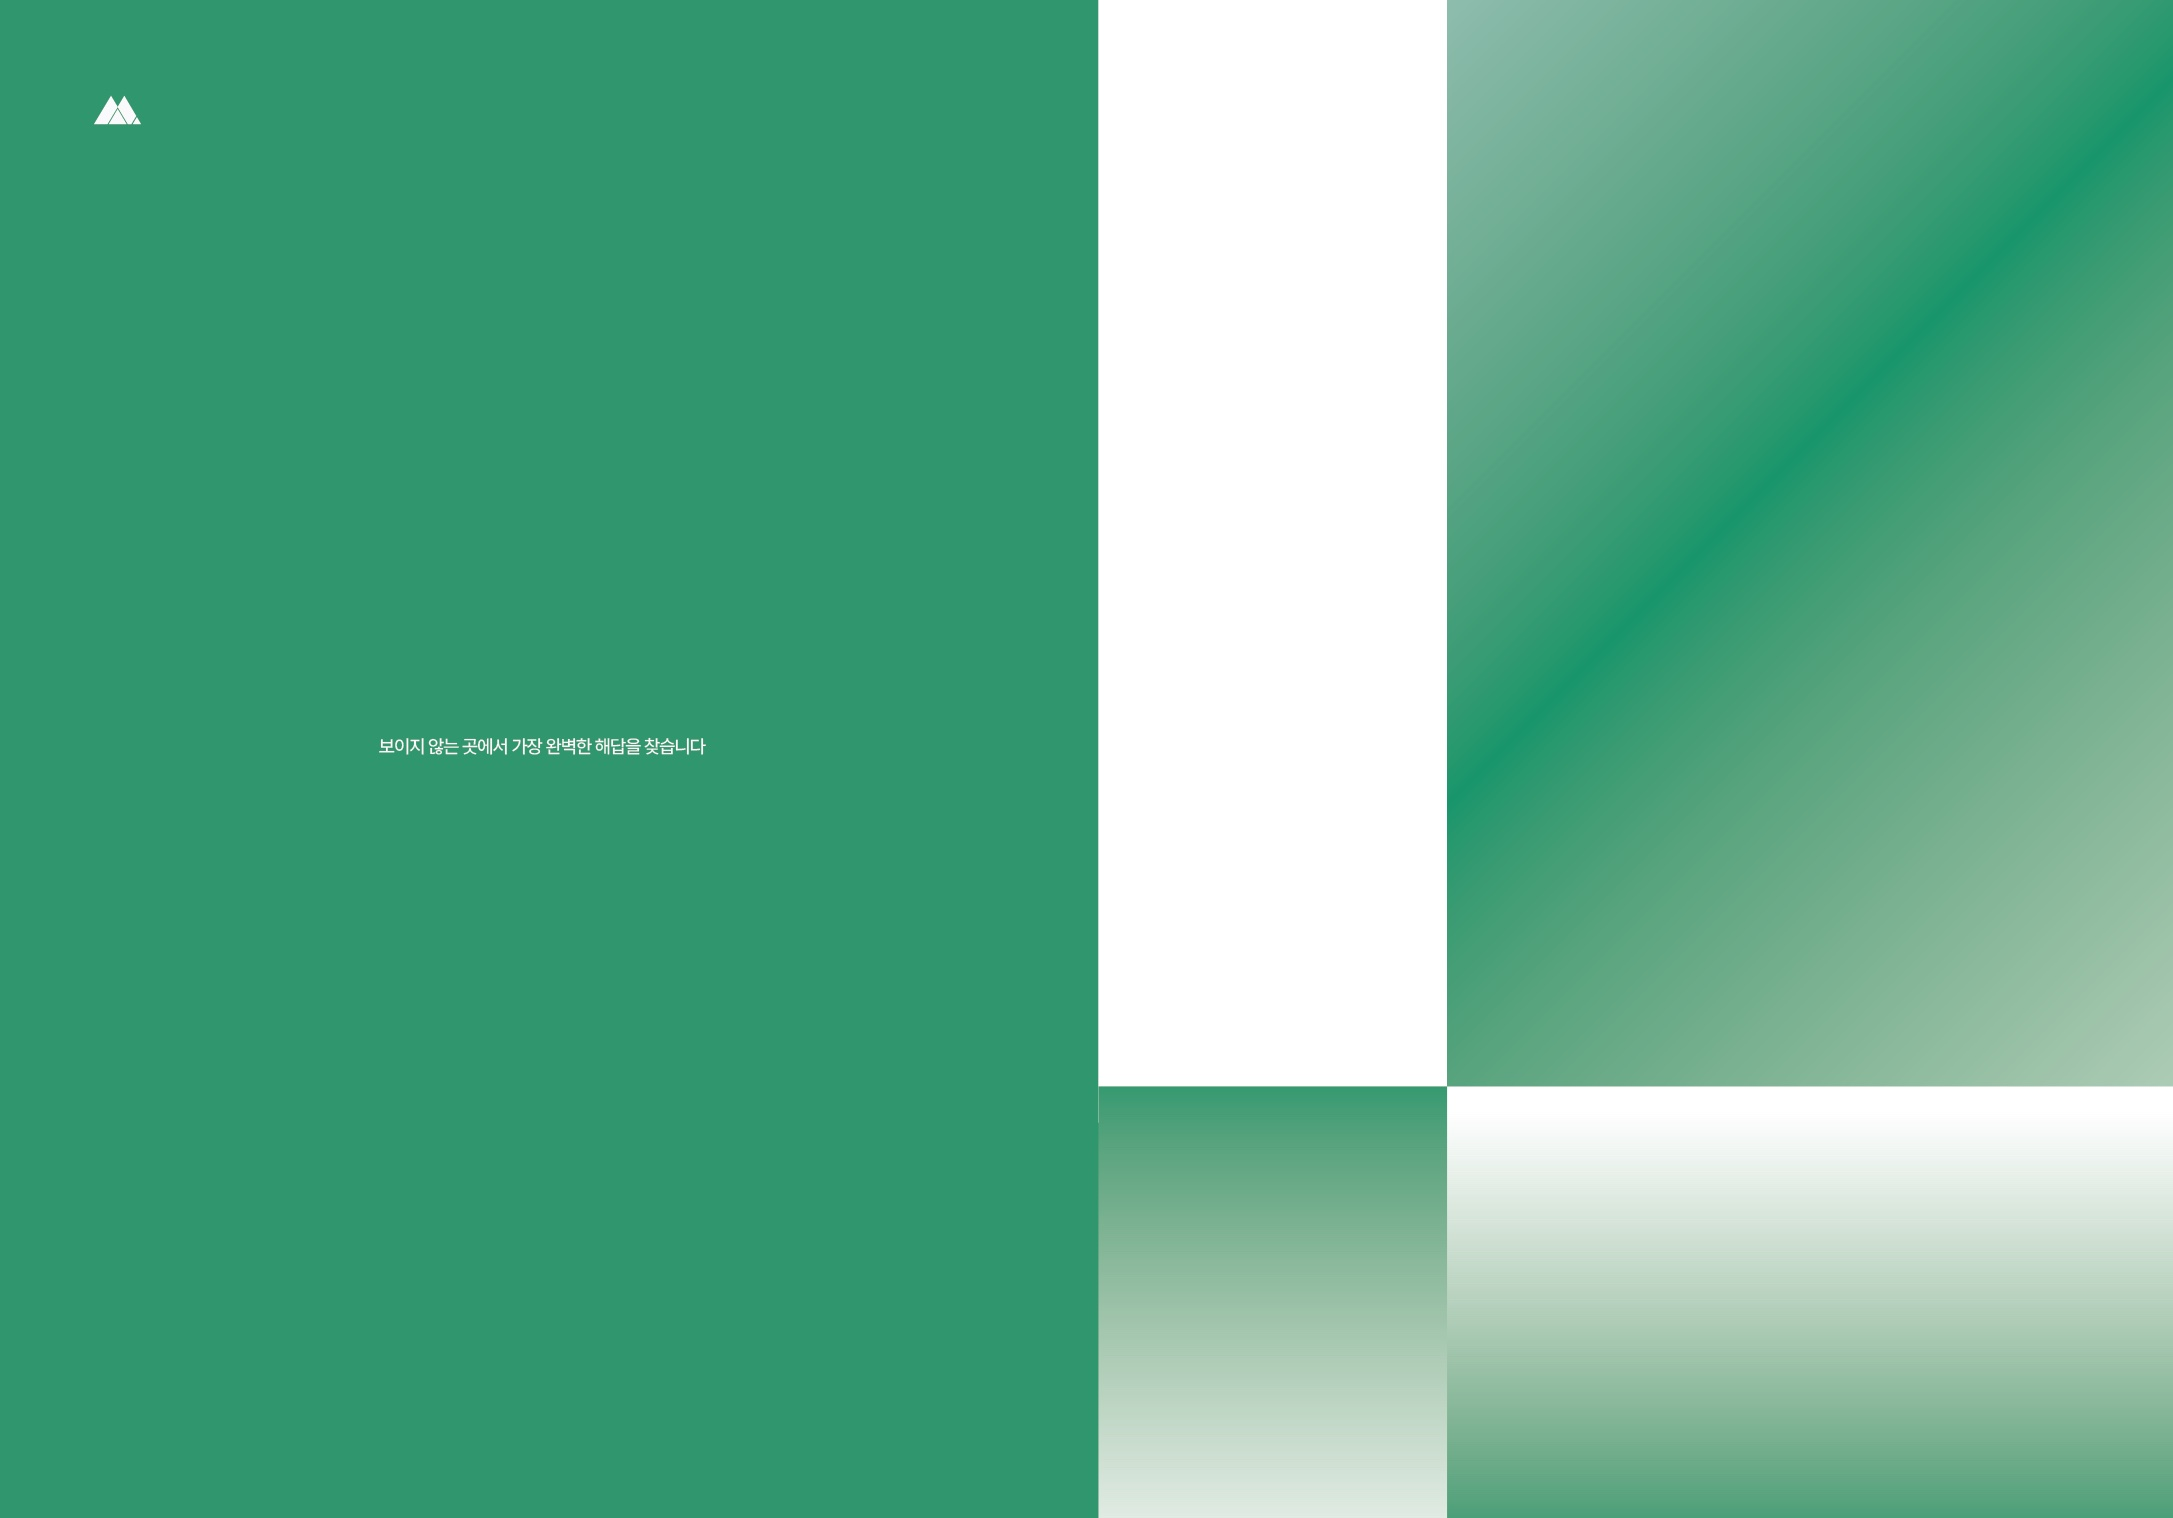
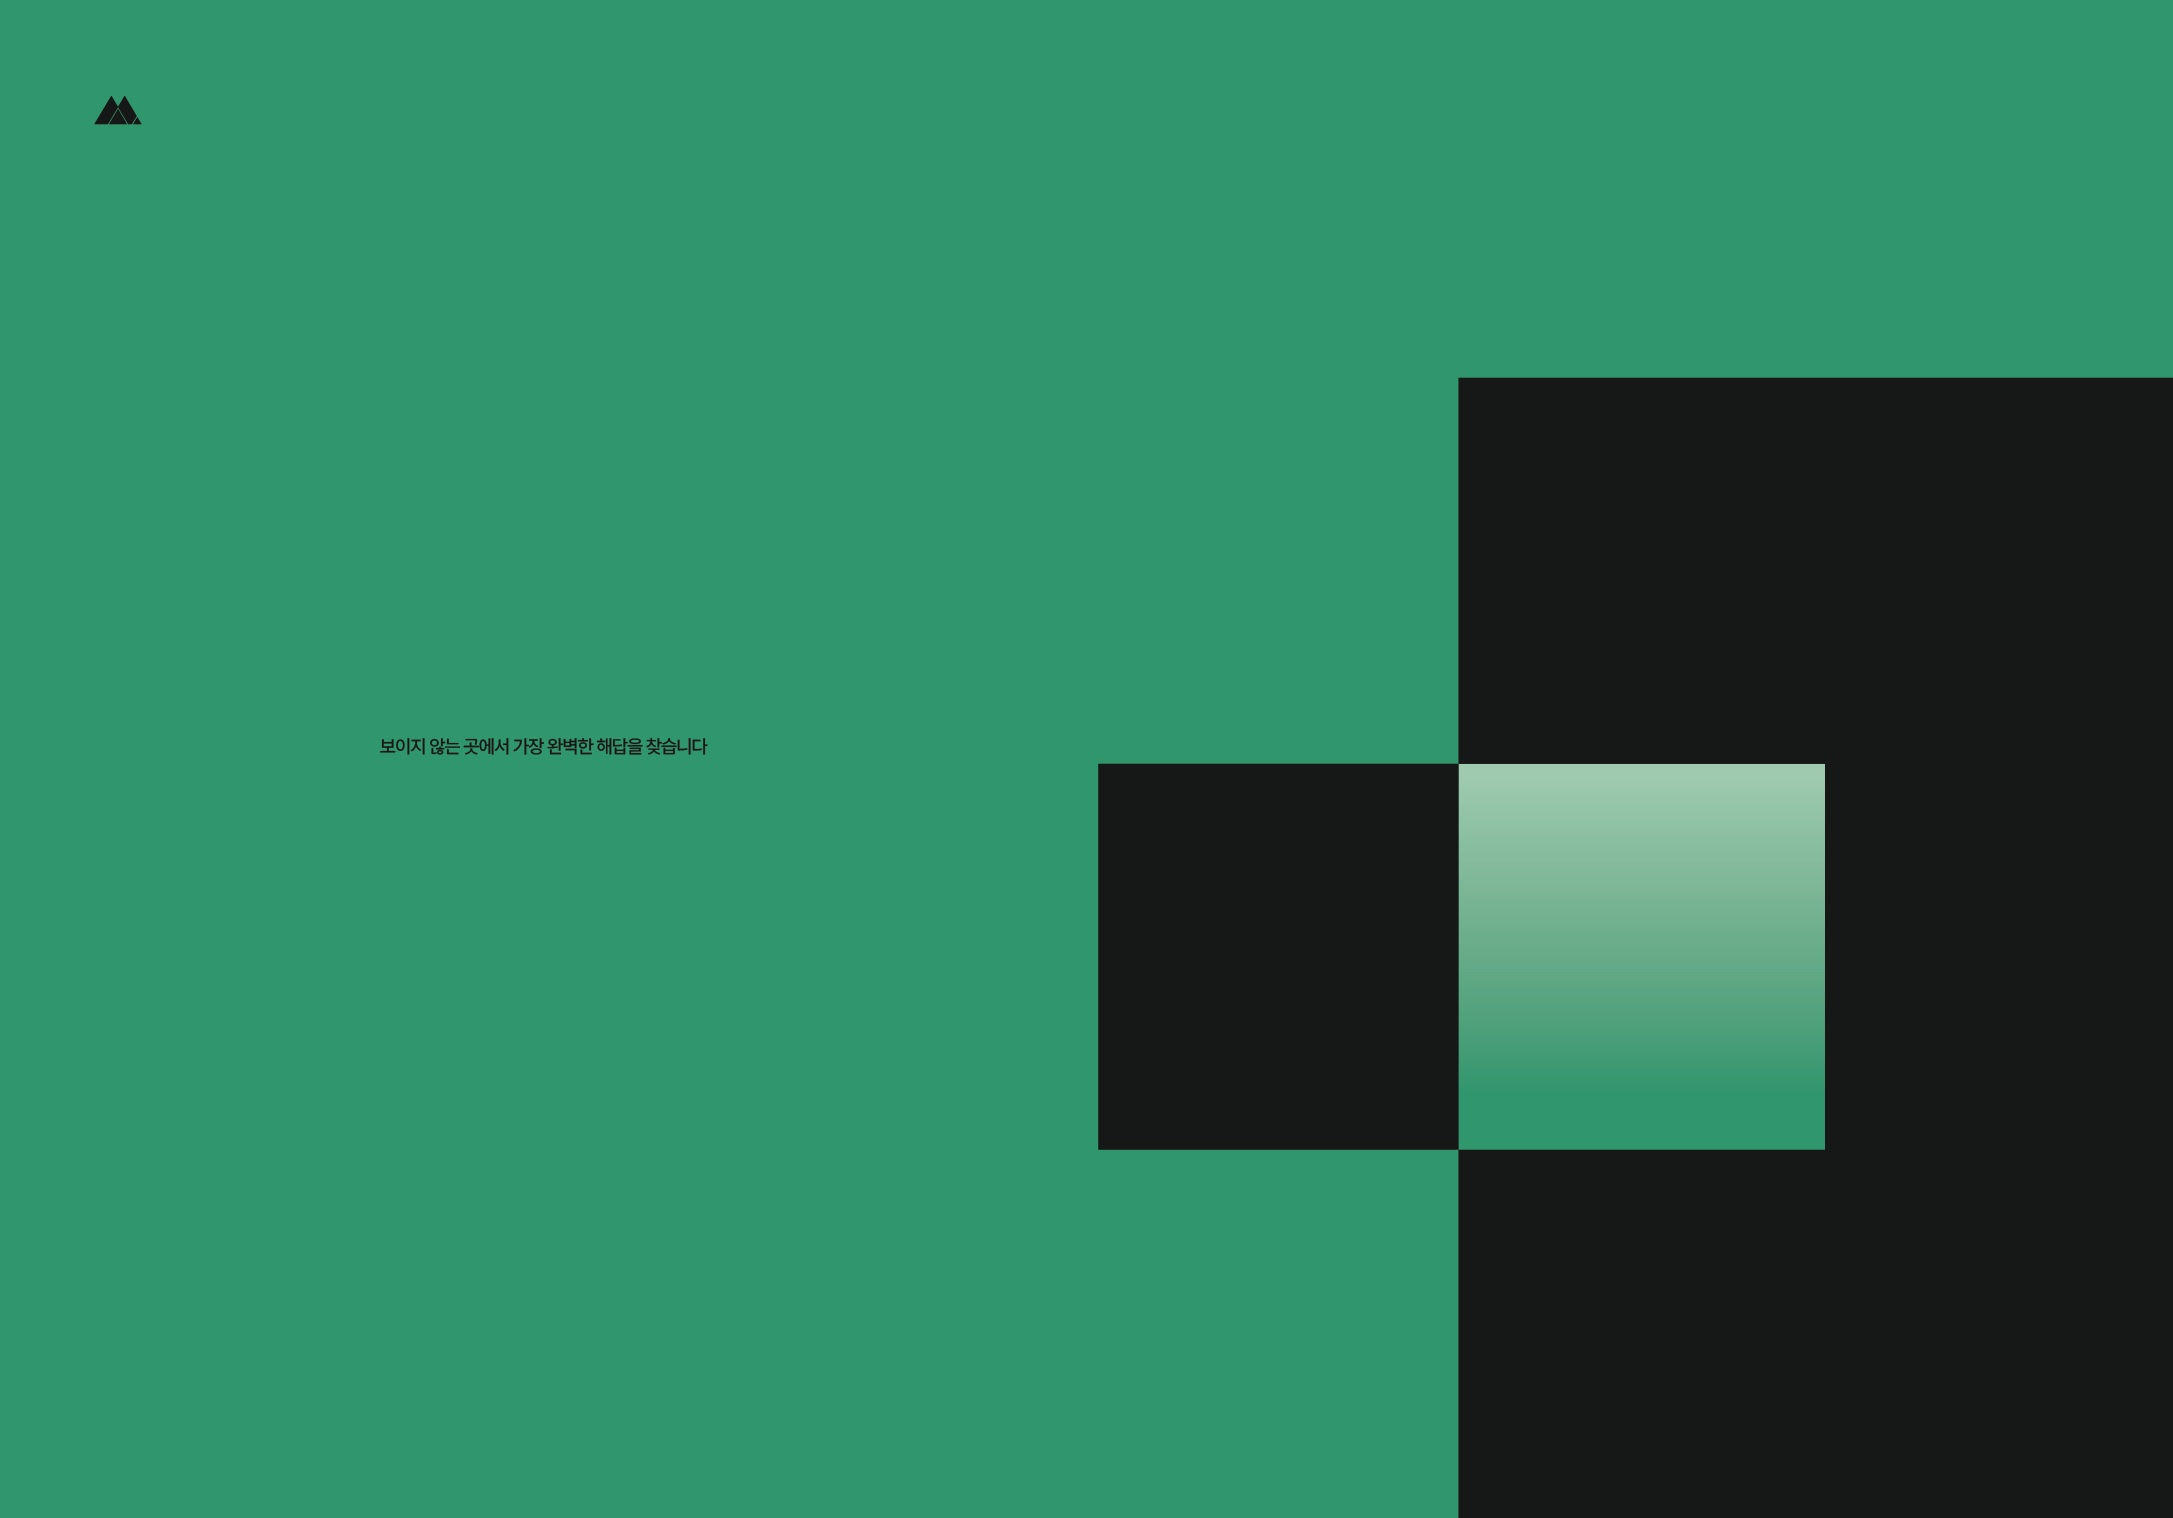
v2 표지 12종: 표지 재료·규칙·엔진·표지 고르기 화면·썸네일
새 표지 마스터(표지_1105) 쪽 순서 = 표지 번호 01~12. 안쪽 그린 01·02·03·05·06, 나머지 블랙.
추천 템플릿 B 표지 03 → 12(디자인 그대로), 한 줄 아래 정렬 04 → 09(엔진 ?v=20261105b).
썸네일은 엔진으로 만든 표1(학원명 + BRANDBOOK).

diff --git a/v2/index.html b/v2/index.html
@@ -937,7 +937,7 @@
 <script src="https://cdn.jsdelivr.net/npm/pdf-lib@1.17.1/dist/pdf-lib.min.js"></script>
 <script src="https://cdn.jsdelivr.net/npm/@pdf-lib/fontkit@1.1.1/dist/fontkit.umd.min.js"></script>
 <!-- 엔진을 고치면 ?v= 값을 바꿔 브라우저에 남은 예전 엔진을 쓰지 않게 합니다 -->
-<script src="brandbook/engine.js?v=20261105"></script>
+<script src="brandbook/engine.js?v=20261105b"></script>
 <!-- 앞부분(3~12p) 직접 꾸미기 편집기 (2026-11-05). 편집기를 고치면 ?v= 값을 바꿉니다. -->
 <link rel="stylesheet" href="diy/diy-editor.css?v=20261105d">
 <script src="https://cdnjs.cloudflare.com/ajax/libs/fabric.js/5.3.0/fabric.min.js"></script>
@@ -1355,7 +1355,7 @@ const selectedTopics = new Set();
 // 실제 업로드된 파일이 guide_1.png, greeting_1.png처럼 언더스코어로 되어있어 pageFile()도 언더스코어를 씁니다.
 function pageFile(prefix, idx){ return `../assets/pages/${prefix}_${idx}.png`; }
 function thumbFile(prefix, idx){ return `../assets/thumbs/${prefix}-${idx}.jpg`; }
-function frontCoverFile(name){ return `../assets/covers/${name}.jpg`; } // 앞표지 6종 실제 파일은 ../assets/covers 폴더에 jpg로 있습니다 (cover-1.jpg ~ cover-6.jpg).
+function frontCoverFile(name){ return `assets/covers/${name}.jpg`; } // 앞표지 12종 썸네일은 v2/assets/covers/cover-01.jpg ~ cover-12.jpg (엔진으로 학원명 + BRANDBOOK을 넣어 만든 이미지)
 // 미리보기 모달 이미지: 주제의 idx번째 페이지(1부터)를 엔진이 PDF에 쓰는 바탕 이미지로 보여줍니다.
 // (예전 사이트의 topic_N_k.png는 간지가 섞이고 페이지 구성이 달라 장수가 맞지 않아 쓰지 않습니다.)
 function topicFile(topicId, idx){
@@ -1378,20 +1378,17 @@ function pageBreakdown(){
 }
 function totalSelectedPages(){ return pageBreakdown().total; }
 
-// ===================== 표지 디자인 6종 =====================
-// front: 화면 썸네일용 앞표지 파일명 (../assets/covers/{front}.jpg, frontCoverFile() 참고).
-// engine: 미리보기 엔진(brandbook/brandbook_rules.json의 covers)의 표지 코드.
-//   엔진이 코드에 맞는 표지 세트를 고릅니다 — 01은 바깥 블랙 + 안쪽 그린, 02~06은 바깥 그린 + 안쪽 블랙.
-const COVERS = [
-  { id:'cover-1', name:'브랜드북 01', front:'cover-1', engine:'01' },
-  { id:'cover-2', name:'브랜드북 02', front:'cover-2', engine:'02' },
-  { id:'cover-3', name:'브랜드북 03', front:'cover-3', engine:'03' },
-  { id:'cover-4', name:'브랜드북 04', front:'cover-4', engine:'04' },
-  { id:'cover-5', name:'브랜드북 05', front:'cover-5', engine:'05' },
-  { id:'cover-6', name:'브랜드북 06', front:'cover-6', engine:'06' },
-];
+// ===================== 표지 디자인 12종 =====================
+// front: 화면 썸네일용 앞표지 파일명 (assets/covers/{front}.jpg, frontCoverFile() 참고).
+// engine: 미리보기 엔진(brandbook/brandbook_rules.json의 covers)의 표지 코드 = 표지 마스터 쪽 순서(2026-11-05 12종).
+//   안쪽 표지: 01·02·03·05·06은 그린, 나머지는 블랙 (엔진이 코드에 맞는 세트를 고름).
+//   예전 6종 번호 → 새 번호: 01→01, 02→08, 03→12, 04→09, 05→07, 06→11
+const COVERS = Array.from({ length:12 }, (_, i) => {
+  const n = String(i + 1).padStart(2, '0');
+  return { id:'cover-' + n, name:'브랜드북 ' + n, front:'cover-' + n, engine:n };
+});
 
-let themeState = { selectedCoverId:'cover-1' };
+let themeState = { selectedCoverId:'cover-01' };
 
 function findCover(id){ return COVERS.find(c=>c.id===id); }
 
@@ -1416,7 +1413,7 @@ function renderCommonSections(){
     <div class="cb-section">
       <div class="cb-head">
         <div class="cb-title">표지</div>
-        <div class="cb-desc">6종 중 선택</div>
+        <div class="cb-desc">12종 중 선택</div>
       </div>
       <div class="cb-grid">${coverThumbs}</div>
     </div>`;

diff --git a/v2/brandbook/engine.js b/v2/brandbook/engine.js
@@ -270,8 +270,8 @@
         }
       }
       const lines1 = await layoutParas(paras, it.panelMm.w);
-      // 표지 04: 표지 문구가 한 줄이면 위에 떠 보여서 아래 정렬 (InDesign 조립 스크립트와 같음, 2026-11-03)
-      const vAlign1 = (hasCover && coverCode === '04' && lines1.length === 1) ? 'BOTTOM_ALIGN' : it.verticalAlign;
+      // 표지 09(B02 블록분할, 예전 04): 표지 문구가 한 줄이면 위에 떠 보여서 아래 정렬 (InDesign 조립 스크립트와 같음, 2026-11-03 / 12종 번호 2026-11-05)
+      const vAlign1 = (hasCover && coverCode === '09' && lines1.length === 1) ? 'BOTTOM_ALIGN' : it.verticalAlign;
       drawLines(p1, lines1, it.panelMm, vAlign1, '표1');
     }
     const p2 = await coverPanel(innerFile, 'left');

diff --git a/v2/diy-demo.html b/v2/diy-demo.html
@@ -326,7 +326,7 @@
 <script src="https://cdnjs.cloudflare.com/ajax/libs/fabric.js/5.3.0/fabric.min.js"></script>
 <script src="https://cdn.jsdelivr.net/npm/pdf-lib@1.17.1/dist/pdf-lib.min.js"></script>
 <script src="https://cdn.jsdelivr.net/npm/@pdf-lib/fontkit@1.1.1/dist/fontkit.umd.min.js"></script>
-<script src="brandbook/engine.js?v=20261105"></script>
+<script src="brandbook/engine.js?v=20261105b"></script>
 <script>
 const $ = id => document.getElementById(id);
 
